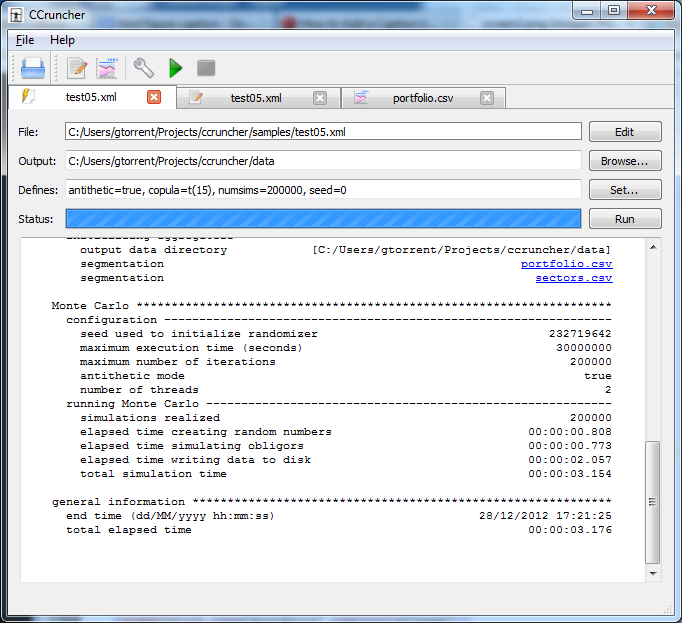
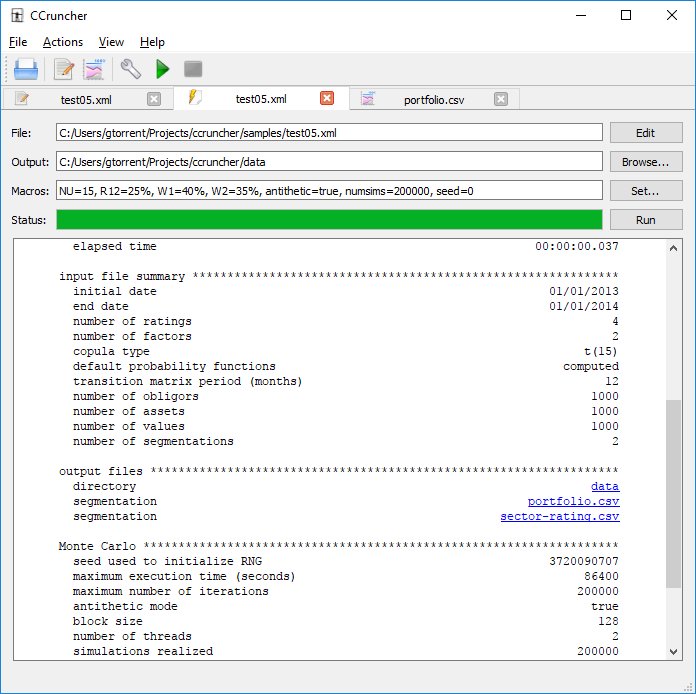
screenshots refreshed

diff --git a/trunk/doc/html/ofileref.html b/trunk/doc/html/ofileref.html
@@ -177,27 +177,27 @@
         <pre>
 <b>&gt; bin/ccruncher-cmd -w -o data -DNU=12.54 -DW1=0.29 -DW2=0.48 -DR12=0.21 samples/test05.xml</b>
 
-        ccruncher is Copyright (C) 2004-2016 Gerard Torrent and licensed        
-        under the GNU General Public License, version 2. More info at          
+        ccruncher is Copyright (C) 2004-2017 Gerard Torrent and licensed        
+         under the GNU General Public License, version 2. More info at          
                             http://www.ccruncher.net                            
 
 general information ************************************************************
-  ccruncher version                                                2.5.0 (R1338)
-  start time (dd/MM/yyyy hh:mm:ss)                           27/07/2016 19:18:45
+  ccruncher version                                                2.5.0 (R1379)
+  start time (dd/MM/yyyy hh:mm:ss)                           20/07/2017 11:27:52
 
 reading input file *************************************************************
   file name                 [/home/gerard/projects/ccruncher/samples/test05.xml]
-  file size                                                            274.60 KB
-  define (user defined)                                                 NU=12.54
-  define (user defined)                                                 R12=0.21
-  define (user defined)                                                  W1=0.29
-  define (user defined)                                                  W2=0.48
-  define (input file)                                             numsims=200000
-  define (input file)                                            copula=t(12.54)
-  define (input file)                                            antithetic=true
-  define (input file)                                                     seed=0
-  file checksum (adler32)                                             2023977821
-  elapsed time parsing data                                         00:00:00.014
+  file size                                                            274.56 KB
+  macro (user defined)                                                  NU=12.54
+  macro (user defined)                                                  R12=0.21
+  macro (user defined)                                                   W1=0.29
+  macro (user defined)                                                   W2=0.48
+  macro (input file)                                              numsims=200000
+  macro (input file)                                             copula=t(12.54)
+  macro (input file)                                             antithetic=true
+  macro (input file)                                                      seed=0
+  file checksum (adler32)                                             2868339635
+  elapsed time                                                      00:00:00.016
 
 input file summary *************************************************************
   initial date                                                        01/01/2013
@@ -207,7 +207,6 @@ input file summary *************************************************************
   copula type                                                           t(12.54)
   default probability functions                                         computed
   transition matrix period (months)                                           12
-  transition matrix regularization error (1M)                                  0
   number of obligors                                                        1000
   number of assets                                                          1000
   number of values                                                          1000
@@ -219,7 +218,7 @@ output files *******************************************************************
   segmentation          [/home/gerard/projects/ccruncher/data/sector-rating.csv]
 
 Monte Carlo ********************************************************************
-  seed used to initialize randomizer                            1469639925676812
+  seed used to initialize RNG                                   1500542872427502
   maximum execution time (seconds)                                         86400
   maximum number of iterations                                            200000
   antithetic mode                                                           true
@@ -230,11 +229,11 @@ Monte Carlo ********************************************************************
     ............................................................................
     ................................................
   simulations realized                                                    200000
-  total simulation time                                             00:00:02.060
+  elapsed time                                                      00:00:02.012
 
 general information ************************************************************
-  end time (dd/MM/yyyy hh:mm:ss)                             27/07/2016 19:18:47
-  total elapsed time                                                00:00:02.079
+  end time (dd/MM/yyyy hh:mm:ss)                             20/07/2017 11:27:54
+  total elapsed time                                                00:00:02.033
         </pre>
         <p>
           ccruncher-gui program saves the execution trace in the ccruncher.out file.
@@ -254,7 +253,7 @@ general information ************************************************************
             Copyright &copy; 2004-2017 - <a href="mailto:gtorrent@ccruncher.net">CCruncher</a>&nbsp;&nbsp;
           </span>
           <span id="modified" class="float-sm-right">
-            Last modified: 12-Jul-2017
+            Last modified: 20-Jul-2017
           </span>
         </div>
       </footer>

diff --git a/trunk/doc/html/download.html b/trunk/doc/html/download.html
@@ -91,7 +91,7 @@
                 </p>
               </div>
               <div class="card-footer text-xs-center">
-                <a href="ccruncher-2.5.0-windows.zip">ccruncher-2.5.0-windows.zip</a>
+                <a href="ccruncher-2.5.0_win.zip">ccruncher-2.5.0_win.zip</a>
               </div>
             </div>
           </div>
@@ -111,9 +111,9 @@
                 </p>
               </div>
               <div class="card-footer text-xs-center">
-                <a href="ccruncher-2.5.0.rpm">ccruncher-2.5.0.rpm</a>
+                <a href="ccruncher-2.5.0-1.x86_64.rpm">ccruncher-2.5.0-1.x86_64.rpm</a>
                 <br/>
-                <a href="ccruncher-2.5.0.src.rpm">ccruncher-2.5.0.src.rpm</a>
+                <a href="ccruncher-2.5.0-1.src.rpm">ccruncher-2.5.0-1.src.rpm</a>
               </div>
             </div>
           </div>
@@ -145,7 +145,7 @@
             Copyright &copy; 2004-2017 - <a href="mailto:gtorrent@ccruncher.net">CCruncher</a>&nbsp;&nbsp;
           </span>
           <span id="modified" class="float-sm-right">
-            Last modified: 01-Jan-2017
+            Last modified: 20-Jul-2017
           </span>
         </div>
       </footer>

diff --git a/trunk/doc/html/gstarted.html b/trunk/doc/html/gstarted.html
@@ -218,7 +218,7 @@
         <pre>
 <b>&gt; bin/ccruncher-cmd -h</b>
 
-Usage: ccruncher-cmd [OPTION] [FILE]
+Usage: ccruncher-cmd [OPTION]... [FILE]
 
 Simule the loss distribution of the credit portfolio described in the xml
 input FILE using the Monte Carlo method. FILE can be gziped. If no one is
@@ -227,7 +227,7 @@ details of the simulation procedure can be found at http://www.ccruncher.net.
 
 Mandatory arguments to long options are mandatory for short options too.
 
-  -D, --define=KEY=VAL    replace macro '$KEY' by 'VAL' in input file
+  -D, --define=KEY=VAL    replace '$KEY' strings by 'VAL' in input file
   -a, --append            output data is appended to existing files
   -w, --overwrite         existing output files are overwritten
   -o, --output=DIRECTORY  place output files in DIRECTORY (default=current dir)
@@ -298,7 +298,7 @@ file if at all possible.
             Copyright &copy; 2004-2017 - <a href="mailto:gtorrent@ccruncher.net">CCruncher</a>&nbsp;&nbsp;
           </span>
           <span id="modified" class="float-sm-right">
-            Last modified: 12-Jul-2017
+            Last modified: 20-Jul-2017
           </span>
         </div>
       </footer>
